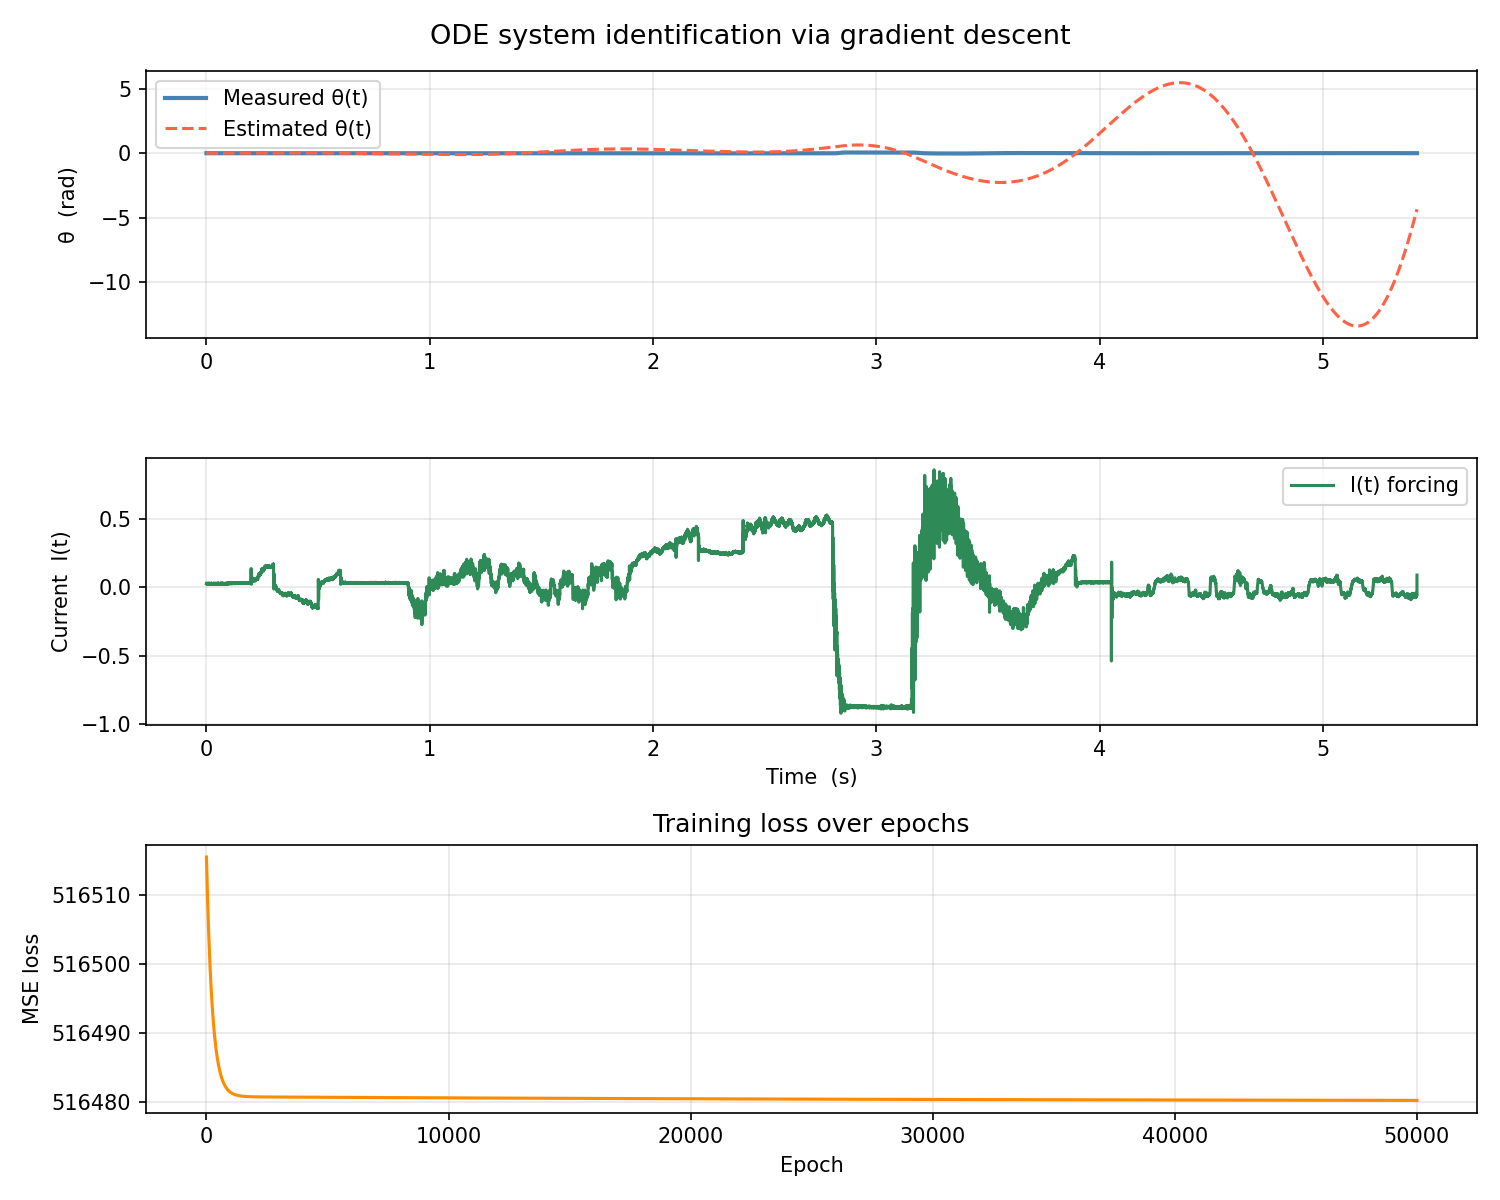
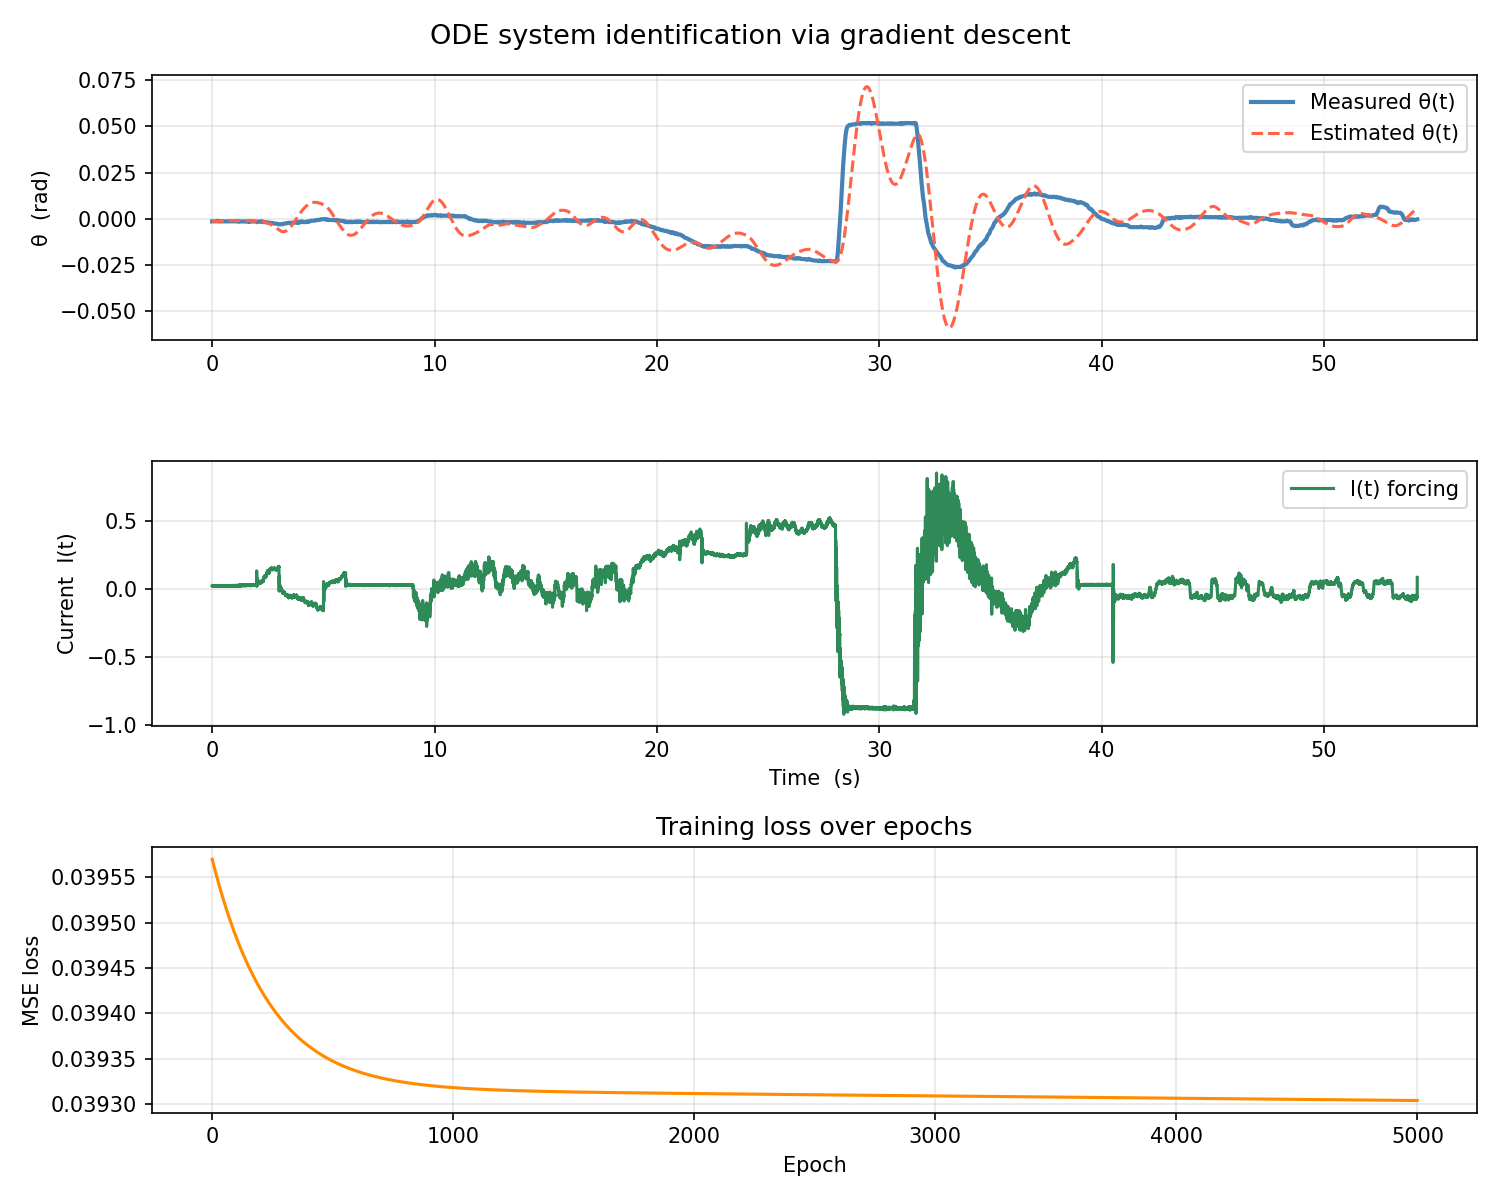
new archimedes code it works pretty well

diff --git a/archimedes6.py b/archimedes6.py
@@ -1,0 +1,146 @@
+from matplotlib.pylab import lstsq
+from scipy.optimize import least_squares
+import numpy as np
+import pandas as pd
+from scipy.integrate import solve_ivp
+from scipy.signal import savgol_filter
+from sklearn.model_selection import train_test_split
+import matplotlib.pyplot as plt
+
+# ── 1. Generate synthetic data ────────────────────────────────────────────────
+# ODE:  J·θ̈  +  K·θ̇  +  A·θ  =  B·I(t)
+
+theta = pd.read_csv("DeltaAil_subfile_4.csv",  skiprows=1).squeeze().to_numpy()
+theta = theta - np.mean(theta)  # <-- zero-center the data to improve conditioning
+I     = pd.read_csv("IservoAil_subfile_4.csv", skiprows=1).squeeze().to_numpy()
+dt    = 0.001            # <-- set your sample period in seconds (e.g. 0.01 for 100Hz)
+
+t = np.arange(len(theta)) * dt
+
+# ── 2. Numerical derivatives ──────────────────────────────────────────────────
+theta   = savgol_filter(theta, window_length=100, polyorder=2)
+dtheta  = savgol_filter(theta, window_length=100, polyorder=2, deriv=1, delta=dt)
+d2theta = savgol_filter(theta, window_length=100, polyorder=2, deriv=2, delta=dt)
+
+
+fig, axes = plt.subplots(3, 1, figsize=(10, 8), sharex=False)
+fig.suptitle("ODE system identification via gradient descent", fontsize=13)
+ 
+axes[0].plot(t, theta,     label="θ(t)",  color="steelblue", linewidth=2)
+axes[0].set_ylabel("θ  (rad)")
+axes[0].legend()
+axes[0].grid(True, alpha=0.3)
+
+axes[1].plot(t, dtheta, label="dθ(t)", color="seagreen", linewidth=1.5)
+axes[1].set_ylabel("dθ  (rad/s)")
+axes[1].set_xlabel("Time  (s)")
+axes[1].legend()
+axes[1].grid(True, alpha=0.3)
+ 
+axes[2].plot(d2theta, color="darkorange", linewidth=1.5)
+axes[2].set_ylabel("d2θ  (rad/s²)")
+axes[2].set_xlabel("Epoch")
+axes[2].set_title("Training loss over epochs")
+axes[2].grid(True, alpha=0.3)
+ 
+plt.tight_layout()
+plt.savefig("ode_plot.png", dpi=150)
+plt.show()
+# ── 3. Build feature matrix ───────────────────────────────────────────────────
+# Rearranging:  θ̈ = (B/J)·I  -  (K/J)·θ̇  -  (A/J)·θ
+# So regress:   θ̈  ~  [I,  θ̇,  θ]   →  coefficients [B/J,  -K/J,  -A/J]
+
+X = np.column_stack([I, dtheta, theta, np.ones(theta.shape)])
+y = d2theta
+
+x, residuals, rank, s = lstsq(X, y)
+
+def residuals_func(x):
+    return np.dot(X, x) - y
+x0 = np.zeros(X.shape[1])
+x = least_squares(residuals_func, x0)
+x = x.x
+
+print(x)
+
+# ── 4. Train / test split ─────────────────────────────────────────────────────
+X_train, X_test, y_train, y_test = train_test_split(
+    X, y, test_size=0.2, shuffle=False    # shuffle=False keeps time order
+)
+
+# ── 5. Gradient descent ───────────────────────────────────────────────────────
+# lr is small because features are unscaled — this lets us see the loss
+# curve actually descend across many epochs rather than converging in 1 step.
+lr     = 0.01
+epochs = 5_000
+coeffs = np.zeros(4)
+n      = len(X_train)
+losses = []
+
+for epoch in range(epochs):
+    y_pred = X_train @ coeffs
+    error  = y_pred - y_train
+    loss   = np.mean(error ** 2)
+    grad   = (2 / n) * (X_train.T @ error)
+    coeffs -= lr * grad
+    losses.append(loss)
+
+    if (epoch + 1) % 10_000 == 0:
+        print(f"Epoch {epoch+1:>6}  |  MSE: {loss:.6f}")
+
+# ── 6. Recover physical coefficients ─────────────────────────────────────────
+BoverJ =  x[0]
+KoverJ = -x[1]
+AoverJ = -x[2]
+
+print(np.roots(x[:3]))
+
+# ── 7. Results ────────────────────────────────────────────────────────────────
+y_test_pred = X_test @ coeffs
+ss_res = np.sum((y_test - y_test_pred) ** 2)
+ss_tot = np.sum((y_test - np.mean(y_test)) ** 2)
+r2     = 1 - ss_res / ss_tot
+
+print("\n" + "=" * 30)
+print(f"{'Ratio':<8} {'Value':>12}")
+print("-" * 30)
+for name, val in [("B/J", BoverJ), ("K/J", KoverJ), ("A/J", AoverJ)]:
+    print(f"{name:<8} {val:>12.4f}")
+print("=" * 30)
+print(f"R² on test set: {r2:.6f}")
+ 
+# ── 8. Simulate ODE with estimated ratios ─────────────────────────────────────
+def ode_est(t_val, y):
+    th, dth = y
+    I_val   = np.interp(t_val, t, I)
+    d2th    = BoverJ * I_val - KoverJ * dth - AoverJ * th
+    return [dth, d2th]
+ 
+sol_est   = solve_ivp(ode_est, [t[0], t[-1]], [theta[0], dtheta[0]], t_eval=t, max_step=dt)
+theta_est = sol_est.y[0]
+ 
+# ── 9. Plot ───────────────────────────────────────────────────────────────────
+fig, axes = plt.subplots(3, 1, figsize=(10, 8), sharex=False)
+fig.suptitle("ODE system identification via gradient descent", fontsize=13)
+ 
+axes[0].plot(t, theta,     label="Measured θ(t)",  color="steelblue", linewidth=2)
+axes[0].plot(t, theta_est, label="Estimated θ(t)", color="tomato",    linewidth=1.5, linestyle="--")
+axes[0].set_ylabel("θ  (rad)")
+axes[0].legend()
+axes[0].grid(True, alpha=0.3)
+ 
+axes[1].plot(t, I, label="I(t) forcing", color="seagreen", linewidth=1.5)
+axes[1].set_ylabel("Current  I(t)")
+axes[1].set_xlabel("Time  (s)")
+axes[1].legend()
+axes[1].grid(True, alpha=0.3)
+ 
+axes[2].plot(losses, color="darkorange", linewidth=1.5)
+axes[2].set_ylabel("MSE loss")
+axes[2].set_xlabel("Epoch")
+axes[2].set_title("Training loss over epochs")
+axes[2].grid(True, alpha=0.3)
+ 
+plt.tight_layout()
+plt.savefig("ode_plot.png", dpi=150)
+plt.show()
